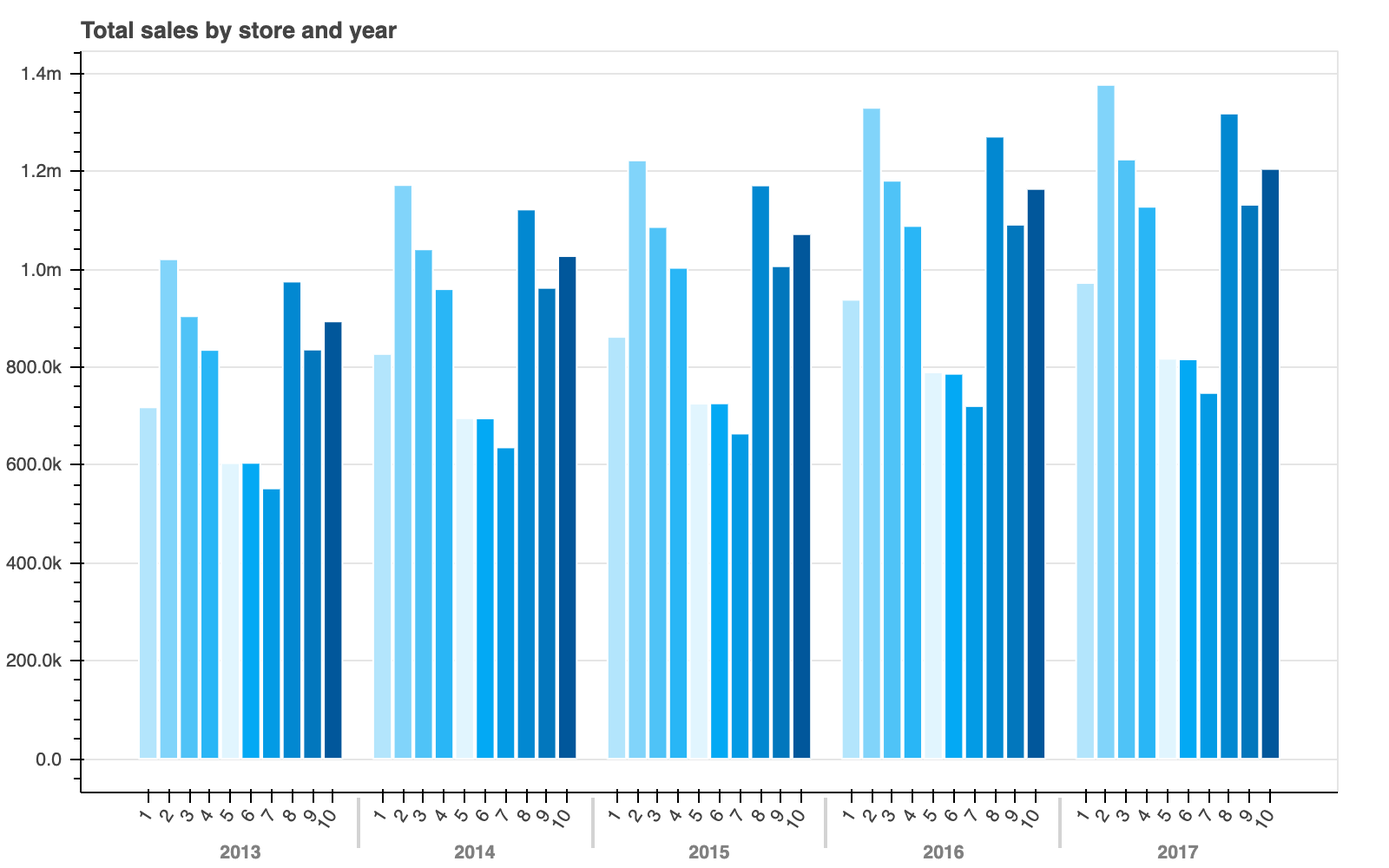
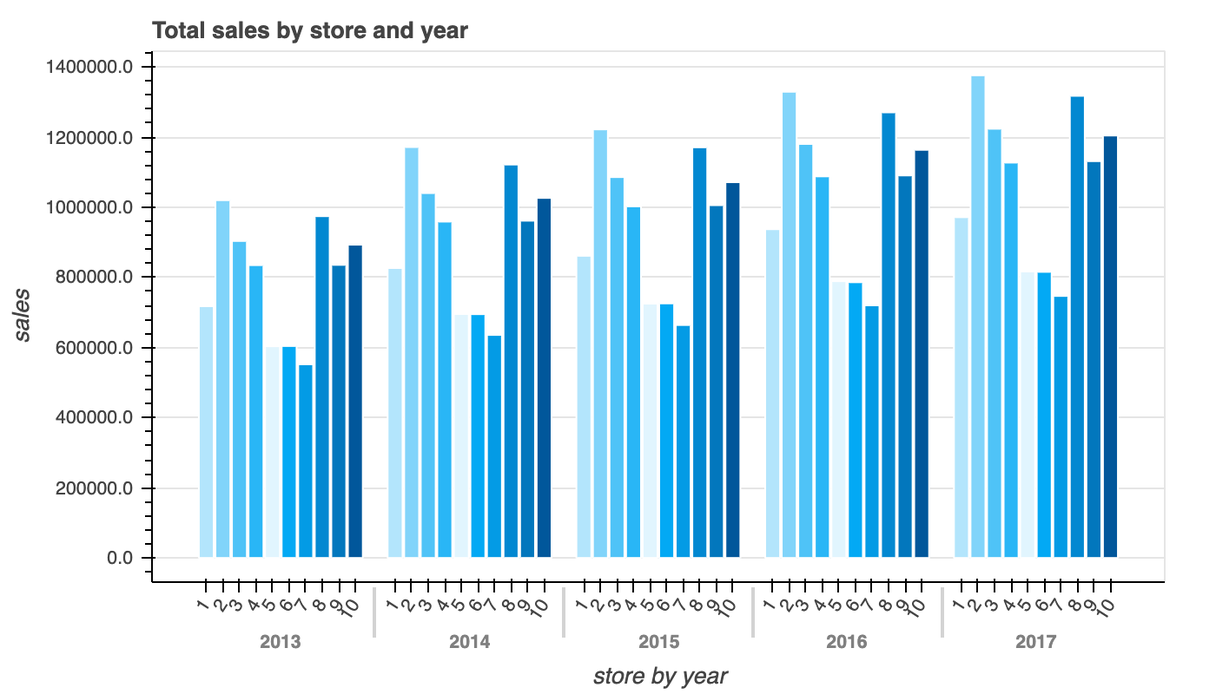
new function and documentation added

diff --git a/multiple_bar_plot/multiple_bar_chart.html b/multiple_bar_plot/multiple_bar_chart.html
@@ -35,14 +35,14 @@
           
           
             
-              <div class="bk-root" id="6fc972da-7ceb-4461-a4b0-d04f183cf05c" data-root-id="1004"></div>
+              <div class="bk-root" id="8834a841-7aa8-4e49-8dd6-8000611a5ecf" data-root-id="1084"></div>
             
           
         
       
       
-        <script type="application/json" id="1089">
-          {"ce54b412-0e99-42e8-b119-50f610c0a722":{"roots":{"references":[{"attributes":{"callback":null,"tooltips":"\n        &lt;style&gt;\n            .bk-tooltip&gt;div:not(:first-child) {display:none;}\n        &lt;/style&gt;\n        &lt;b&gt;year,store : &lt;/b&gt; @x &lt;br&gt;&lt;b&gt;sales : &lt;/b&gt; @y{0,0} &lt;br&gt;"},"id":"1001","type":"HoverTool"},{"attributes":{"dimension":1,"ticker":{"id":"1019","type":"BasicTicker"}},"id":"1022","type":"Grid"},{"attributes":{"text":"Total sales by store and year"},"id":"1005","type":"Title"},{"attributes":{"callback":null,"data":{"palette":["#b3e5fc","#81d4fa","#4fc3f7","#29b6f6","#e1f5fe","#03a9f4","#039be5","#0288d1","#0277bd","#01579b","#b3e5fc","#81d4fa","#4fc3f7","#29b6f6","#e1f5fe","#03a9f4","#039be5","#0288d1","#0277bd","#01579b","#b3e5fc","#81d4fa","#4fc3f7","#29b6f6","#e1f5fe","#03a9f4","#039be5","#0288d1","#0277bd","#01579b","#b3e5fc","#81d4fa","#4fc3f7","#29b6f6","#e1f5fe","#03a9f4","#039be5","#0288d1","#0277bd","#01579b","#b3e5fc","#81d4fa","#4fc3f7","#29b6f6","#e1f5fe","#03a9f4","#039be5","#0288d1","#0277bd","#01579b"],"x":[["2013","1"],["2013","2"],["2013","3"],["2013","4"],["2013","5"],["2013","6"],["2013","7"],["2013","8"],["2013","9"],["2013","10"],["2014","1"],["2014","2"],["2014","3"],["2014","4"],["2014","5"],["2014","6"],["2014","7"],["2014","8"],["2014","9"],["2014","10"],["2015","1"],["2015","2"],["2015","3"],["2015","4"],["2015","5"],["2015","6"],["2015","7"],["2015","8"],["2015","9"],["2015","10"],["2016","1"],["2016","2"],["2016","3"],["2016","4"],["2016","5"],["2016","6"],["2016","7"],["2016","8"],["2016","9"],["2016","10"],["2017","1"],["2017","2"],["2017","3"],["2017","4"],["2017","5"],["2017","6"],["2017","7"],["2017","8"],["2017","9"],["2017","10"]],"y":[717840,1020238,903936,835059,603783,604373,552223,974655,835788,893348,826786,1171797,1040520,959205,695599,695214,635978,1121897,961779,1026707,861710,1222184,1086103,1002730,725342,725917,664267,1171046,1006021,1071567,937493,1329523,1180619,1088195,789271,786299,720382,1270695,1090831,1163852,971774,1376386,1223966,1127450,817021,815867,747159,1317876,1131557,1204684]},"selected":{"id":"1040","type":"Selection"},"selection_policy":{"id":"1039","type":"UnionRenderers"}},"id":"1002","type":"ColumnDataSource"},{"attributes":{},"id":"1038","type":"CategoricalTickFormatter"},{"attributes":{"callback":null},"id":"1008","type":"DataRange1d"},{"attributes":{"below":[{"id":"1014","type":"CategoricalAxis"}],"center":[{"id":"1017","type":"Grid"},{"id":"1022","type":"Grid"}],"left":[{"id":"1018","type":"LinearAxis"}],"plot_height":500,"plot_width":800,"renderers":[{"id":"1030","type":"GlyphRenderer"}],"title":{"id":"1005","type":"Title"},"toolbar":{"id":"1024","type":"Toolbar"},"x_range":{"id":"1003","type":"FactorRange"},"x_scale":{"id":"1010","type":"CategoricalScale"},"y_range":{"id":"1008","type":"DataRange1d"},"y_scale":{"id":"1012","type":"LinearScale"}},"id":"1004","subtype":"Figure","type":"Plot"},{"attributes":{},"id":"1039","type":"UnionRenderers"},{"attributes":{"active_drag":"auto","active_inspect":"auto","active_multi":null,"active_scroll":"auto","active_tap":"auto","tools":[{"id":"1001","type":"HoverTool"},{"id":"1023","type":"SaveTool"},{"id":"1001","type":"HoverTool"}]},"id":"1024","type":"Toolbar"},{"attributes":{},"id":"1010","type":"CategoricalScale"},{"attributes":{"callback":null,"factors":[["2013","1"],["2013","2"],["2013","3"],["2013","4"],["2013","5"],["2013","6"],["2013","7"],["2013","8"],["2013","9"],["2013","10"],["2014","1"],["2014","2"],["2014","3"],["2014","4"],["2014","5"],["2014","6"],["2014","7"],["2014","8"],["2014","9"],["2014","10"],["2015","1"],["2015","2"],["2015","3"],["2015","4"],["2015","5"],["2015","6"],["2015","7"],["2015","8"],["2015","9"],["2015","10"],["2016","1"],["2016","2"],["2016","3"],["2016","4"],["2016","5"],["2016","6"],["2016","7"],["2016","8"],["2016","9"],["2016","10"],["2017","1"],["2017","2"],["2017","3"],["2017","4"],["2017","5"],["2017","6"],["2017","7"],["2017","8"],["2017","9"],["2017","10"]],"range_padding":0.1},"id":"1003","type":"FactorRange"},{"attributes":{},"id":"1023","type":"SaveTool"},{"attributes":{},"id":"1012","type":"LinearScale"},{"attributes":{"fill_color":{"field":"palette"},"line_color":{"value":"white"},"top":{"field":"y"},"width":{"value":0.9},"x":{"field":"x"}},"id":"1028","type":"VBar"},{"attributes":{"formatter":{"id":"1038","type":"CategoricalTickFormatter"},"major_label_orientation":1,"ticker":{"id":"1015","type":"CategoricalTicker"}},"id":"1014","type":"CategoricalAxis"},{"attributes":{"fill_alpha":{"value":0.1},"fill_color":{"value":"#1f77b4"},"line_alpha":{"value":0.1},"line_color":{"value":"#1f77b4"},"top":{"field":"y"},"width":{"value":0.9},"x":{"field":"x"}},"id":"1029","type":"VBar"},{"attributes":{},"id":"1015","type":"CategoricalTicker"},{"attributes":{"data_source":{"id":"1002","type":"ColumnDataSource"},"glyph":{"id":"1028","type":"VBar"},"hover_glyph":null,"muted_glyph":null,"nonselection_glyph":{"id":"1029","type":"VBar"},"selection_glyph":null,"view":{"id":"1031","type":"CDSView"}},"id":"1030","type":"GlyphRenderer"},{"attributes":{"grid_line_color":null,"ticker":{"id":"1015","type":"CategoricalTicker"}},"id":"1017","type":"Grid"},{"attributes":{"source":{"id":"1002","type":"ColumnDataSource"}},"id":"1031","type":"CDSView"},{"attributes":{"formatter":{"id":"1033","type":"NumeralTickFormatter"},"ticker":{"id":"1019","type":"BasicTicker"}},"id":"1018","type":"LinearAxis"},{"attributes":{"format":"0.0a"},"id":"1033","type":"NumeralTickFormatter"},{"attributes":{},"id":"1019","type":"BasicTicker"},{"attributes":{},"id":"1040","type":"Selection"}],"root_ids":["1004"]},"title":"Bokeh Application","version":"1.2.0"}}
+        <script type="application/json" id="1193">
+          {"6e42bcfd-2593-49b0-8475-0118e149805e":{"roots":{"references":[{"attributes":{"data_source":{"id":"1001","type":"ColumnDataSource"},"glyph":{"id":"1028","type":"VBar"},"hover_glyph":null,"muted_glyph":null,"nonselection_glyph":{"id":"1029","type":"VBar"},"selection_glyph":null,"view":{"id":"1031","type":"CDSView"}},"id":"1030","type":"GlyphRenderer"},{"attributes":{},"id":"1096","type":"UnionRenderers"},{"attributes":{"text":"Total sales by store and year"},"id":"1039","type":"Title"},{"attributes":{"source":{"id":"1001","type":"ColumnDataSource"}},"id":"1031","type":"CDSView"},{"attributes":{"callback":null},"id":"1042","type":"DataRange1d"},{"attributes":{"format":"0.0"},"id":"1033","type":"NumeralTickFormatter"},{"attributes":{},"id":"1044","type":"CategoricalScale"},{"attributes":{"axis_label":"Sales","formatter":{"id":"1067","type":"NumeralTickFormatter"},"ticker":{"id":"1053","type":"BasicTicker"}},"id":"1052","type":"LinearAxis"},{"attributes":{},"id":"1046","type":"LinearScale"},{"attributes":{"axis_label":"Store Nr by Year","formatter":{"id":"1092","type":"CategoricalTickFormatter"},"major_label_orientation":0.5,"ticker":{"id":"1049","type":"CategoricalTicker"}},"id":"1048","type":"CategoricalAxis"},{"attributes":{"children":[{"id":"1080","type":"Column"}]},"id":"1081","type":"Row"},{"attributes":{},"id":"1049","type":"CategoricalTicker"},{"attributes":{"callback":null,"data":{"palette":["#c5cae9","#9fa8da","#7986cb","#5c6bc0","#e8eaf6","#3f51b5","#3949ab","#303f9f","#283593","#1a237e","#c5cae9","#9fa8da","#7986cb","#5c6bc0","#e8eaf6","#3f51b5","#3949ab","#303f9f","#283593","#1a237e","#c5cae9","#9fa8da","#7986cb","#5c6bc0","#e8eaf6","#3f51b5","#3949ab","#303f9f","#283593","#1a237e","#c5cae9","#9fa8da","#7986cb","#5c6bc0","#e8eaf6","#3f51b5","#3949ab","#303f9f","#283593","#1a237e","#c5cae9","#9fa8da","#7986cb","#5c6bc0","#e8eaf6","#3f51b5","#3949ab","#303f9f","#283593","#1a237e"],"x":[["2013","1"],["2013","2"],["2013","3"],["2013","4"],["2013","5"],["2013","6"],["2013","7"],["2013","8"],["2013","9"],["2013","10"],["2014","1"],["2014","2"],["2014","3"],["2014","4"],["2014","5"],["2014","6"],["2014","7"],["2014","8"],["2014","9"],["2014","10"],["2015","1"],["2015","2"],["2015","3"],["2015","4"],["2015","5"],["2015","6"],["2015","7"],["2015","8"],["2015","9"],["2015","10"],["2016","1"],["2016","2"],["2016","3"],["2016","4"],["2016","5"],["2016","6"],["2016","7"],["2016","8"],["2016","9"],["2016","10"],["2017","1"],["2017","2"],["2017","3"],["2017","4"],["2017","5"],["2017","6"],["2017","7"],["2017","8"],["2017","9"],["2017","10"]],"y":[717840,1020238,903936,835059,603783,604373,552223,974655,835788,893348,826786,1171797,1040520,959205,695599,695214,635978,1121897,961779,1026707,861710,1222184,1086103,1002730,725342,725917,664267,1171046,1006021,1071567,937493,1329523,1180619,1088195,789271,786299,720382,1270695,1090831,1163852,971774,1376386,1223966,1127450,817021,815867,747159,1317876,1131557,1204684]},"selected":{"id":"1095","type":"Selection"},"selection_policy":{"id":"1096","type":"UnionRenderers"}},"id":"1035","type":"ColumnDataSource"},{"attributes":{"children":[{"id":"1004","subtype":"Figure","type":"Plot"}]},"id":"1080","type":"Column"},{"attributes":{"dimension":1,"ticker":{"id":"1053","type":"BasicTicker"}},"id":"1056","type":"Grid"},{"attributes":{},"id":"1095","type":"Selection"},{"attributes":{"active_drag":"auto","active_inspect":"auto","active_multi":null,"active_scroll":"auto","active_tap":"auto","tools":[{"id":"1036","type":"HoverTool"},{"id":"1057","type":"SaveTool"},{"id":"1036","type":"HoverTool"}]},"id":"1058","type":"Toolbar"},{"attributes":{},"id":"1057","type":"SaveTool"},{"attributes":{"callback":null,"factors":[["2013","1"],["2013","2"],["2013","3"],["2013","4"],["2013","5"],["2013","6"],["2013","7"],["2013","8"],["2013","9"],["2013","10"],["2014","1"],["2014","2"],["2014","3"],["2014","4"],["2014","5"],["2014","6"],["2014","7"],["2014","8"],["2014","9"],["2014","10"],["2015","1"],["2015","2"],["2015","3"],["2015","4"],["2015","5"],["2015","6"],["2015","7"],["2015","8"],["2015","9"],["2015","10"],["2016","1"],["2016","2"],["2016","3"],["2016","4"],["2016","5"],["2016","6"],["2016","7"],["2016","8"],["2016","9"],["2016","10"],["2017","1"],["2017","2"],["2017","3"],["2017","4"],["2017","5"],["2017","6"],["2017","7"],["2017","8"],["2017","9"],["2017","10"]],"range_padding":0.1},"id":"1003","type":"FactorRange"},{"attributes":{"fill_color":{"field":"palette"},"line_color":{"value":"white"},"top":{"field":"y"},"width":{"value":0.95},"x":{"field":"x"}},"id":"1062","type":"VBar"},{"attributes":{"fill_alpha":{"value":0.1},"fill_color":{"value":"#1f77b4"},"line_alpha":{"value":0.1},"line_color":{"value":"#1f77b4"},"top":{"field":"y"},"width":{"value":0.95},"x":{"field":"x"}},"id":"1063","type":"VBar"},{"attributes":{"data_source":{"id":"1035","type":"ColumnDataSource"},"glyph":{"id":"1062","type":"VBar"},"hover_glyph":null,"muted_glyph":null,"nonselection_glyph":{"id":"1063","type":"VBar"},"selection_glyph":null,"view":{"id":"1065","type":"CDSView"}},"id":"1064","type":"GlyphRenderer"},{"attributes":{"callback":null,"tooltips":"\n        &lt;style&gt;\n            .bk-tooltip&gt;div:not(:first-child) {display:none;}\n        &lt;/style&gt;\n        &lt;b&gt;year,store : &lt;/b&gt; @x &lt;br&gt;&lt;b&gt;sales : &lt;/b&gt; @y &lt;br&gt;"},"id":"1002","type":"HoverTool"},{"attributes":{"source":{"id":"1035","type":"ColumnDataSource"}},"id":"1065","type":"CDSView"},{"attributes":{"format":"0.0a"},"id":"1067","type":"NumeralTickFormatter"},{"attributes":{"index":0,"label":{"value":"Store Nr: 1"},"renderers":[{"id":"1064","type":"GlyphRenderer"}]},"id":"1069","type":"LegendItem"},{"attributes":{"below":[{"id":"1048","type":"CategoricalAxis"}],"center":[{"id":"1051","type":"Grid"},{"id":"1056","type":"Grid"}],"left":[{"id":"1052","type":"LinearAxis"}],"plot_height":500,"plot_width":800,"renderers":[{"id":"1064","type":"GlyphRenderer"}],"right":[{"id":"1079","type":"Legend"}],"title":{"id":"1039","type":"Title"},"toolbar":{"id":"1058","type":"Toolbar"},"x_range":{"id":"1037","type":"FactorRange"},"x_scale":{"id":"1044","type":"CategoricalScale"},"y_range":{"id":"1042","type":"DataRange1d"},"y_scale":{"id":"1046","type":"LinearScale"}},"id":"1038","subtype":"Figure","type":"Plot"},{"attributes":{"index":1,"label":{"value":"Store Nr: 2"},"renderers":[{"id":"1064","type":"GlyphRenderer"}]},"id":"1070","type":"LegendItem"},{"attributes":{"index":2,"label":{"value":"Store Nr: 3"},"renderers":[{"id":"1064","type":"GlyphRenderer"}]},"id":"1071","type":"LegendItem"},{"attributes":{"index":3,"label":{"value":"Store Nr: 4"},"renderers":[{"id":"1064","type":"GlyphRenderer"}]},"id":"1072","type":"LegendItem"},{"attributes":{"below":[{"id":"1014","type":"CategoricalAxis"}],"center":[{"id":"1017","type":"Grid"},{"id":"1022","type":"Grid"}],"left":[{"id":"1018","type":"LinearAxis"}],"plot_height":400,"plot_width":700,"renderers":[{"id":"1030","type":"GlyphRenderer"}],"title":{"id":"1005","type":"Title"},"toolbar":{"id":"1024","type":"Toolbar"},"x_range":{"id":"1003","type":"FactorRange"},"x_scale":{"id":"1010","type":"CategoricalScale"},"y_range":{"id":"1008","type":"DataRange1d"},"y_scale":{"id":"1012","type":"LinearScale"}},"id":"1004","subtype":"Figure","type":"Plot"},{"attributes":{"index":4,"label":{"value":"Store Nr: 5"},"renderers":[{"id":"1064","type":"GlyphRenderer"}]},"id":"1073","type":"LegendItem"},{"attributes":{"callback":null,"data":{"palette":["#b3e5fc","#81d4fa","#4fc3f7","#29b6f6","#e1f5fe","#03a9f4","#039be5","#0288d1","#0277bd","#01579b","#b3e5fc","#81d4fa","#4fc3f7","#29b6f6","#e1f5fe","#03a9f4","#039be5","#0288d1","#0277bd","#01579b","#b3e5fc","#81d4fa","#4fc3f7","#29b6f6","#e1f5fe","#03a9f4","#039be5","#0288d1","#0277bd","#01579b","#b3e5fc","#81d4fa","#4fc3f7","#29b6f6","#e1f5fe","#03a9f4","#039be5","#0288d1","#0277bd","#01579b","#b3e5fc","#81d4fa","#4fc3f7","#29b6f6","#e1f5fe","#03a9f4","#039be5","#0288d1","#0277bd","#01579b"],"x":[["2013","1"],["2013","2"],["2013","3"],["2013","4"],["2013","5"],["2013","6"],["2013","7"],["2013","8"],["2013","9"],["2013","10"],["2014","1"],["2014","2"],["2014","3"],["2014","4"],["2014","5"],["2014","6"],["2014","7"],["2014","8"],["2014","9"],["2014","10"],["2015","1"],["2015","2"],["2015","3"],["2015","4"],["2015","5"],["2015","6"],["2015","7"],["2015","8"],["2015","9"],["2015","10"],["2016","1"],["2016","2"],["2016","3"],["2016","4"],["2016","5"],["2016","6"],["2016","7"],["2016","8"],["2016","9"],["2016","10"],["2017","1"],["2017","2"],["2017","3"],["2017","4"],["2017","5"],["2017","6"],["2017","7"],["2017","8"],["2017","9"],["2017","10"]],"y":[717840,1020238,903936,835059,603783,604373,552223,974655,835788,893348,826786,1171797,1040520,959205,695599,695214,635978,1121897,961779,1026707,861710,1222184,1086103,1002730,725342,725917,664267,1171046,1006021,1071567,937493,1329523,1180619,1088195,789271,786299,720382,1270695,1090831,1163852,971774,1376386,1223966,1127450,817021,815867,747159,1317876,1131557,1204684]},"selected":{"id":"1093","type":"Selection"},"selection_policy":{"id":"1094","type":"UnionRenderers"}},"id":"1001","type":"ColumnDataSource"},{"attributes":{"index":5,"label":{"value":"Store Nr: 6"},"renderers":[{"id":"1064","type":"GlyphRenderer"}]},"id":"1074","type":"LegendItem"},{"attributes":{},"id":"1053","type":"BasicTicker"},{"attributes":{"text":"Total sales by store and year"},"id":"1005","type":"Title"},{"attributes":{"index":6,"label":{"value":"Store Nr: 7"},"renderers":[{"id":"1064","type":"GlyphRenderer"}]},"id":"1075","type":"LegendItem"},{"attributes":{"callback":null},"id":"1008","type":"DataRange1d"},{"attributes":{"index":7,"label":{"value":"Store Nr: 8"},"renderers":[{"id":"1064","type":"GlyphRenderer"}]},"id":"1076","type":"LegendItem"},{"attributes":{},"id":"1010","type":"CategoricalScale"},{"attributes":{"index":8,"label":{"value":"Store Nr: 9"},"renderers":[{"id":"1064","type":"GlyphRenderer"}]},"id":"1077","type":"LegendItem"},{"attributes":{},"id":"1012","type":"LinearScale"},{"attributes":{"index":9,"label":{"value":"Store Nr: 10"},"renderers":[{"id":"1064","type":"GlyphRenderer"}]},"id":"1078","type":"LegendItem"},{"attributes":{"axis_label":"store by year","formatter":{"id":"1089","type":"CategoricalTickFormatter"},"major_label_orientation":1,"ticker":{"id":"1015","type":"CategoricalTicker"}},"id":"1014","type":"CategoricalAxis"},{"attributes":{"items":[{"id":"1069","type":"LegendItem"},{"id":"1070","type":"LegendItem"},{"id":"1071","type":"LegendItem"},{"id":"1072","type":"LegendItem"},{"id":"1073","type":"LegendItem"},{"id":"1074","type":"LegendItem"},{"id":"1075","type":"LegendItem"},{"id":"1076","type":"LegendItem"},{"id":"1077","type":"LegendItem"},{"id":"1078","type":"LegendItem"}],"location":[0,0]},"id":"1079","type":"Legend"},{"attributes":{},"id":"1015","type":"CategoricalTicker"},{"attributes":{"children":[{"id":"1038","subtype":"Figure","type":"Plot"}]},"id":"1082","type":"Column"},{"attributes":{"grid_line_color":null,"ticker":{"id":"1015","type":"CategoricalTicker"}},"id":"1017","type":"Grid"},{"attributes":{"children":[{"id":"1082","type":"Column"}]},"id":"1083","type":"Row"},{"attributes":{"axis_label":"sales","formatter":{"id":"1033","type":"NumeralTickFormatter"},"ticker":{"id":"1019","type":"BasicTicker"}},"id":"1018","type":"LinearAxis"},{"attributes":{"children":[{"id":"1081","type":"Row"},{"id":"1083","type":"Row"}]},"id":"1084","type":"Column"},{"attributes":{},"id":"1019","type":"BasicTicker"},{"attributes":{"dimension":1,"ticker":{"id":"1019","type":"BasicTicker"}},"id":"1022","type":"Grid"},{"attributes":{"active_drag":"auto","active_inspect":"auto","active_multi":null,"active_scroll":"auto","active_tap":"auto","tools":[{"id":"1002","type":"HoverTool"},{"id":"1023","type":"SaveTool"},{"id":"1002","type":"HoverTool"}]},"id":"1024","type":"Toolbar"},{"attributes":{"callback":null,"factors":[["2013","1"],["2013","2"],["2013","3"],["2013","4"],["2013","5"],["2013","6"],["2013","7"],["2013","8"],["2013","9"],["2013","10"],["2014","1"],["2014","2"],["2014","3"],["2014","4"],["2014","5"],["2014","6"],["2014","7"],["2014","8"],["2014","9"],["2014","10"],["2015","1"],["2015","2"],["2015","3"],["2015","4"],["2015","5"],["2015","6"],["2015","7"],["2015","8"],["2015","9"],["2015","10"],["2016","1"],["2016","2"],["2016","3"],["2016","4"],["2016","5"],["2016","6"],["2016","7"],["2016","8"],["2016","9"],["2016","10"],["2017","1"],["2017","2"],["2017","3"],["2017","4"],["2017","5"],["2017","6"],["2017","7"],["2017","8"],["2017","9"],["2017","10"]],"range_padding":0.1},"id":"1037","type":"FactorRange"},{"attributes":{},"id":"1089","type":"CategoricalTickFormatter"},{"attributes":{"grid_line_color":null,"ticker":{"id":"1049","type":"CategoricalTicker"}},"id":"1051","type":"Grid"},{"attributes":{},"id":"1023","type":"SaveTool"},{"attributes":{"callback":null,"tooltips":"\n        &lt;style&gt;\n            .bk-tooltip&gt;div:not(:first-child) {display:none;}\n        &lt;/style&gt;\n        &lt;b&gt;year,store : &lt;/b&gt; @x &lt;br&gt;&lt;b&gt;sales : &lt;/b&gt; @y{0,0} &lt;br&gt;"},"id":"1036","type":"HoverTool"},{"attributes":{},"id":"1092","type":"CategoricalTickFormatter"},{"attributes":{"fill_color":{"field":"palette"},"line_color":{"value":"white"},"top":{"field":"y"},"width":{"value":0.9},"x":{"field":"x"}},"id":"1028","type":"VBar"},{"attributes":{},"id":"1093","type":"Selection"},{"attributes":{"fill_alpha":{"value":0.1},"fill_color":{"value":"#1f77b4"},"line_alpha":{"value":0.1},"line_color":{"value":"#1f77b4"},"top":{"field":"y"},"width":{"value":0.9},"x":{"field":"x"}},"id":"1029","type":"VBar"},{"attributes":{},"id":"1094","type":"UnionRenderers"}],"root_ids":["1084"]},"title":"Bokeh Application","version":"1.2.0"}}
         </script>
         <script type="text/javascript">
           (function() {
@@ -51,8 +51,8 @@
                 (function(root) {
                   function embed_document(root) {
                     
-                  var docs_json = document.getElementById('1089').textContent;
-                  var render_items = [{"docid":"ce54b412-0e99-42e8-b119-50f610c0a722","roots":{"1004":"6fc972da-7ceb-4461-a4b0-d04f183cf05c"}}];
+                  var docs_json = document.getElementById('1193').textContent;
+                  var render_items = [{"docid":"6e42bcfd-2593-49b0-8475-0118e149805e","roots":{"1084":"8834a841-7aa8-4e49-8dd6-8000611a5ecf"}}];
                   root.Bokeh.embed.embed_items(docs_json, render_items);
                 
                   }

diff --git a/plot_functions.py b/plot_functions.py
@@ -1,5 +1,6 @@
 import pandas as pd
 import numpy as np
+import warnings
 import calendar
 import matplotlib.pyplot as plt
 
@@ -149,7 +150,9 @@ def plot_dual_axis_dual_bar_line(
     """ Assigns tooltips """
     tooltips_bar = [
         (kwargs.get('x_tooltip_name', 'Group'), '@x'),
-        (kwargs.get('bar_tooltip_name', left_axis_y_label), '@bar_values' + kwargs.get('bar_tooltip_format', '')),
+        (kwargs.get('bar_tooltip_name', left_axis_y_label),
+         '@bar_values' + kwargs.get('bar_tooltip_format', '')
+         ),
         (kwargs.get('line_tooltip_name', right_axis_y_label), '@line_values' + kwargs.get('line_tooltip_format', ''))
     ]
     hover_bar.tooltips = get_custom_hover_tooltips(tooltips_bar)
@@ -176,13 +179,9 @@ def plot_dual_axis_dual_bar_line(
     return p
 
 
-def plot_multiple_bar_chart(df, title, x_axis, y_axis, x_axis_categories,
-                            md_color_shade='lightblue', plot_width=800, plot_height=500,
+def plot_multiple_bar_chart(df, title, x_axis, y_axis, x_axis_categories, md_color_shade='lightblue', show_legend=False,
                             **kwargs):
-    custom_hover = HoverTool()
-
-    colours = create_multi_colour_pallete(md_color_shade)
-
+    """ prepare data """
     if (x_axis in df.index.names) | (y_axis in df.index.names):
         df.reset_index(inplace=True)
 
@@ -192,32 +191,71 @@ def plot_multiple_bar_chart(df, title, x_axis, y_axis, x_axis_categories,
 
     df_pivot_as_list = [item for sublist in df_pivot.as_matrix() for item in sublist]
 
+    """ colours """
+    try:
+        colours = create_multi_colour_pallete(md_color_shade)
+    except KeyError:
+        md_colour_names = get_material_design_colours().keys()
+        warnings.warn(
+            """{} is not in the colour palette of Material Design. Select one of the following colours:\n{}"""
+                .format(md_color_shade, ', '.join(md_colour_names))
+        )
+        colours = create_multi_colour_pallete('lightblue')
+
     palette = colours[0:len(df_pivot.columns)] * len(df_pivot.index)
 
+    """ bar chart """
     source = ColumnDataSource(data=dict(x=x, y=df_pivot_as_list, palette=palette))
 
-    p = figure(x_range=FactorRange(*x), title=title, plot_width=plot_width, plot_height=plot_height,
-               tools=[custom_hover, 'save'])
+    custom_hover = HoverTool()
+
+    p = figure(
+        x_range=FactorRange(*x),
+        title=title,
+        plot_width=kwargs.get('plot_width', 700),
+        plot_height=kwargs.get('plot_height', 400),
+        tools=[custom_hover, 'save'])
 
     if len(colours) < len(df_pivot.columns):
         raise IndexError("""There are more categories ({} categories) than colours ({} colours). 
                             Increase number of colours or reduce category number.""".format(len(df_pivot.columns),
                                                                                             len(colours)))
+    bar_chart = p.vbar(
+        x='x',
+        top='y',
+        fill_color='palette',
+        source=source,
+        width=kwargs.get('bar_width', 0.9),
+        line_color="white",
+    )
 
-    p.vbar(x='x', top='y', fill_color='palette', source=source, width=0.9, line_color="white", )
-
-    p.xaxis.major_label_orientation = 1
-    p.xgrid.grid_line_color = None
-
-    tooltips = [('{},{}'.format(x_axis, x_axis_categories), "@x"),
-                (y_axis, "@y" + kwargs.get('y_tooltip_format', ''))]
+    """ tooltips """
+    tooltips = [
+        ('{},{}'.format(x_axis, x_axis_categories), "@x"),
+        (y_axis, "@y" + kwargs.get('y_tooltip_format', ''))
+    ]
     custom_hover.tooltips = get_custom_hover_tooltips(tooltips)
 
     p.add_tools(custom_hover)
 
-    p.yaxis.formatter = NumeralTickFormatter(format=kwargs.get('y_axis_format', "0.0a"))
+    """ axis """
+    y_axis_label = kwargs.get('y_axis_label', y_axis)
+    x_axis_label = kwargs.get('x_axis_label', x_axis)
+    x_category_label = kwargs.get('x_categories', x_axis_categories)
 
-    p.x_range.range_padding = 0.1
+    p.xaxis.axis_label = '{} by {}'.format(x_category_label, x_axis_label)
+    p.yaxis.axis_label = y_axis_label
+    p = format_axis(p, **kwargs)
+    p = format_grid(p, **kwargs)
+
+    """ legend """
+    if show_legend:
+        bar_variables = df[x_axis_categories].unique()
+        legend = Legend(items=[
+            LegendItem(label=x_category_label + ': ' + bar_variables[i].astype(str), renderers=[bar_chart], index=i) for i in range(len(bar_variables))
+        ], location=kwargs.get('legend_location', (0, 0)))
+
+        p.add_layout(legend, kwargs.get('legend_placement', 'right'))
 
     return p
 

diff --git a/multiple_bar_plot/multiple_bar_chart.py b/multiple_bar_plot/multiple_bar_chart.py
@@ -9,14 +9,46 @@ df = pd.read_csv('../static/data/yearly_sales_by_store.csv')
 
 output_file("multiple_bar_chart.html")
 
-p = plot_multiple_bar_chart(
+p_mandatory = plot_multiple_bar_chart(
     df,
     title='Total sales by store and year',
     x_axis='year',
-    y_axis= 'sales',
+    y_axis='sales',
     x_axis_categories='store',
-    y_tooltip_format='{0,0}',
-    y_axis_format='0.0a'
 )
 
-show(p)
+p_optional = plot_multiple_bar_chart(
+    df,
+    title='Total sales by store and year',
+    x_axis='year',
+    y_axis='sales',
+    x_axis_categories='store',
+    md_color_shade='indigo',
+    bar_width=0.95,
+    y_tooltip_format='{0,0}',
+    y_num_tick_formatter='0.0a',
+    plot_width=800,
+    plot_height=500,
+    x_label_orientation=0.5,
+    y_axis_label='Sales',
+    x_axis_label='Year',
+    x_categories='Store Nr',
+    show_legend=True
+)
+
+# show(
+#     layout(
+#         Row(
+#             Column(p_mandatory)
+#         ),
+#         Row(
+#             Column(p_optional)
+#         )
+#     )
+# )
+
+from tabulate import tabulate
+df_ = df.copy()
+df_['sales'] = df_['sales'].map('{:,.0f}'.format)
+
+print(tabulate(df_, tablefmt="github", headers="keys", showindex=False))

diff --git a/multiple_bar_plot/README.md b/multiple_bar_plot/README.md
@@ -1,0 +1,95 @@
+## Graph 1: Function with mandatory parameters
+
+Obligatory parameters are: title and names for the x axis, y axis and x_axis categories 
+
+```python
+plot_multiple_bar_chart(
+    df, #pd.DataFrame
+    title='Total sales by store and year', #str
+    x_axis='year', #str
+    y_axis='sales', #str
+    x_axis_categories='store', #str
+)
+```
+_To observe the hover functionality, download the HTML page and open in your browser._
+
+![dual_axis_multiple_bar_line_chart_extended](../static/images/multiple_bar_chart_extended.png)
+
+### Snapshot of data used in graph
+
+|   year |   store | sales     |
+|--------|---------|-----------|
+|   2013 |       1 | 717,840   |
+|   2013 |       2 | 1,020,238 |
+|   2013 |       3 | 903,936   |
+|   2013 |       4 | 835,059   |
+|   2013 |       5 | 603,783   |
+|   2013 |       6 | 604,373   |
+|   2013 |       7 | 552,223   |
+|   2013 |       8 | 974,655   |
+|   2013 |       9 | 835,788   |
+|   2013 |      10 | 893,348   |
+|   2014 |       1 | 826,786   |
+|   2014 |       2 | 1,171,797 |
+|   2014 |       3 | 1,040,520 |
+|   ... |       ... | ... |
+
+
+
+
+## Graph 2: Function with additional and optional parameters
+
+In addition to the obligatory parameters, we can add many other optionals as seen in the function below.
+```python
+plot_multiple_bar_chart(
+    #...all parameters as in the previous graph and optionally:
+    df, #pd.DataFrame
+    title='Total sales by store and year', #str
+    x_axis='year', #str
+    y_axis='sales', #str
+    x_axis_categories='store', #str
+    md_color_shade='indigo', #str (see list of colours below the code)
+    bar_width=0.95, #float
+    y_tooltip_format='{0,0}', #str
+    y_num_tick_formatter='0.0a', #str
+    plot_width=800, #int
+    plot_height=500, #int
+    x_label_orientation=0.5, #float
+    y_axis_label='Sales', #str
+    x_axis_label='Year', #str
+    x_categories='Store Nr', #str
+    show_legend=True #bool
+)
+```
+_Find in this [link](https://bokeh.pydata.org/en/latest/docs/reference/models/formatters.html#bokeh.models.formatters.NumeralTickFormatter) 
+the different numerical formats you can use for `y_num_tick_formatter` and `bar_tooltip_format` 
+(this last one needs to be in brackets, e.g: `{0 %}}`)
+
+The `md_color_shade` is a one of the following colour names used in [Material Design](https://material-ui.com/customization/color/#color-palette):
+red, pink, purple, deeppurple, indigo, blue, lightblue, cyan, teal, green, lightgreen, lime, yellow, amber, orange, 
+deeporange, brown, grey, bluegrey
+
+_To observe the hover functionality, download the HTML page and open in your browser._
+
+![dual_axis_multiple_bar_line_chart_extended](../static/images/multiple_bar_chart_extended.png)
+
+As before, the same table was used:
+
+### Snapshot of data used in graph
+
+|   year |   store | sales     |
+|--------|---------|-----------|
+|   2013 |       1 | 717,840   |
+|   2013 |       2 | 1,020,238 |
+|   2013 |       3 | 903,936   |
+|   2013 |       4 | 835,059   |
+|   2013 |       5 | 603,783   |
+|   2013 |       6 | 604,373   |
+|   2013 |       7 | 552,223   |
+|   2013 |       8 | 974,655   |
+|   2013 |       9 | 835,788   |
+|   2013 |      10 | 893,348   |
+|   2014 |       1 | 826,786   |
+|   2014 |       2 | 1,171,797 |
+|   2014 |       3 | 1,040,520 |
+|   ... |       ... | ... |

diff --git a/README.md b/README.md
@@ -14,11 +14,11 @@ Each folder contains a working version of a chart. You can always decide to edit
  All plot functions are available in `plot_functions.py`, which can be added, edited and re-used in any of your 
  projects.
  
-## Graphs Catalogue
+## Catalogue
  
  |[Dual bar and line chart](https://github.com/valeria-io/bokeh-vis-functions/tree/master/dual_axis_bar_line_plot) | [Multiple bar chart](https://github.com/valeria-io/bokeh-dataviz-catalogue/tree/master/multiple_bar_plot)|
  | --- | ---|
- |![dual_axis_multiple_bar_line_chart_basic text](static/images/dual_axis_multiple_bar_line_chart_basic.png)| ![multiple_bar_chart text](static/images/multiple_bar_chart_basic.png)|
+ |![dual_axis_multiple_bar_line_chart_basic text](static/images/dual_axis_multiple_bar_line_chart_extended.png)| ![multiple_bar_chart text](static/images/multiple_bar_chart_basic.png)|
  
  
 ## Contact
